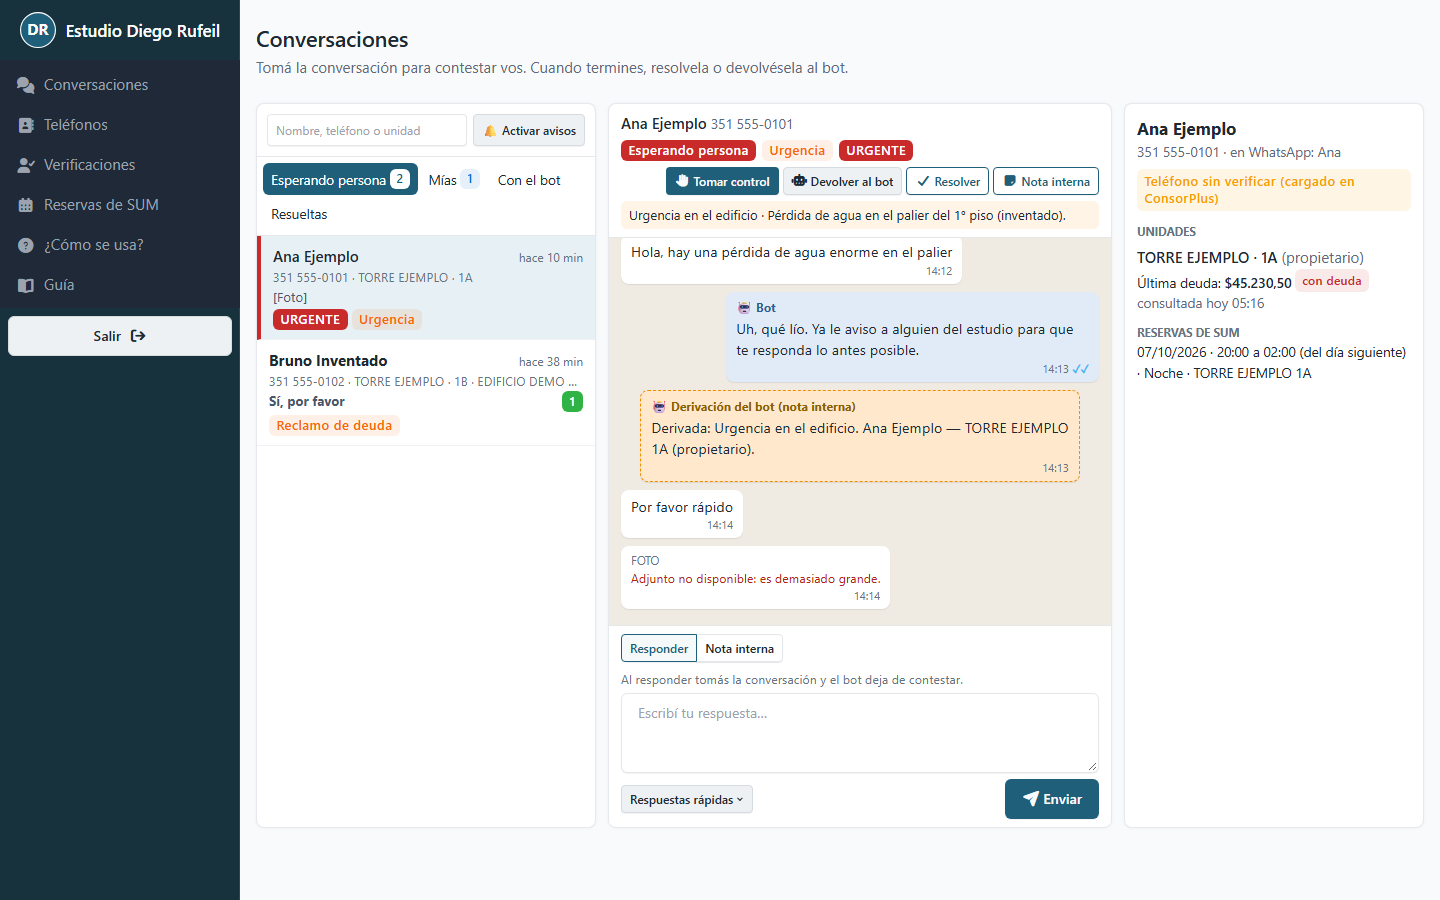
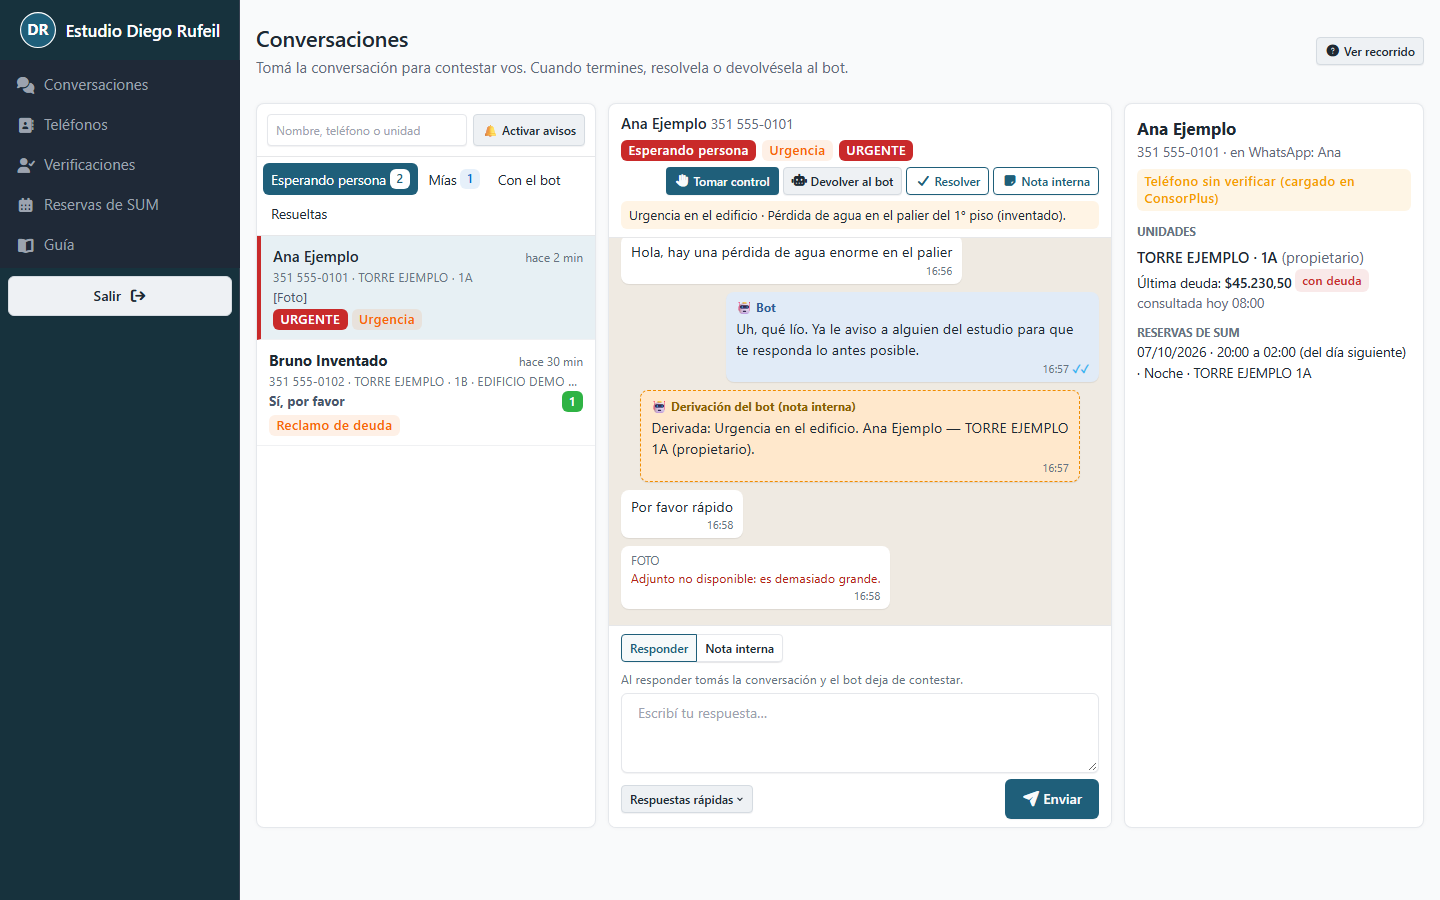
panel: «Ver recorrido» como botón del encabezado de Conversaciones (arranca ahí mismo o abre la primera esperando) en lugar de «¿Cómo se usa?» en el menú; guía, ayuda, capturas, tests e inventario actualizados

Changed region(s): [[0.0, 0.2489, 0.1875, 0.4044], [0.9062, 0.0311, 1.0, 0.0622], [0.8438, 0.3111, 0.875, 0.3422]]

diff --git a/app/admin/templates/sqladmin/layout.html b/app/admin/templates/sqladmin/layout.html
@@ -4,12 +4,14 @@
     the original stays as is. -#}
 {% extends "sqladmin_original/layout.html" %}
 {% block content_header %}
-<div class="row align-items-center">
+<div class="row align-items-center g-2">
   <div class="col">
     <h2 class="page-title">{% if title %}{{ title }}{% elif model_view is defined %}{{ model_view.name_plural }}{% endif %}</h2>
     {% set help_line = page_help(request) %}
     {% if help_line %}<p class="page-help mb-0">{{ help_line }}</p>{% endif %}
   </div>
+  {# A page's own buttons beside its title (e.g. "Ver recorrido" in Conversaciones). #}
+  {% block header_actions %}{% endblock %}
 </div>
 {% endblock %}
 {% block tail %}

diff --git a/app/admin/templates/conversations.html b/app/admin/templates/conversations.html
@@ -1,4 +1,12 @@
 {% extends "sqladmin/layout.html" %}
+{% block header_actions %}
+<div class="col-auto">
+  {# With a conversation open, panel.js starts the tour right here; else the link opens the
+     first waiting one with the tour (/admin/tour). #}
+  <a class="btn btn-sm btn-secondary" id="tour-start" href="{{ url_for('admin:view-tour') }}"
+     data-tour-start><i class="fa-solid fa-circle-question me-1"></i>Ver recorrido</a>
+</div>
+{% endblock %}
 {% block content %}
 <div class="col-12">
   <div id="inbox-app" class="inbox{% if open_id %} has-open{% endif %}"

diff --git a/app/admin/static/panel.js b/app/admin/static/panel.js
@@ -142,5 +142,14 @@
   }
 
   window.panelTour = start;
+  // "Ver recorrido": right here when a conversation is open (all its buttons are on the page);
+  // otherwise the link opens the first waiting conversation with the tour.
+  var startButton = document.querySelector("[data-tour-start]");
+  if (startButton && app.dataset.open) {
+    startButton.addEventListener("click", function (event) {
+      event.preventDefault();
+      start();
+    });
+  }
   if (app.dataset.tourAuto === "true") start();
 })();

diff --git a/tests/admin/test_tour.py b/tests/admin/test_tour.py
@@ -1,5 +1,5 @@
 """The tour of "Conversaciones": it opens by itself until each user sees (or skips) it, and the
-menu's "¿Cómo se usa?" shows it again over a conversation. Invented data only."""
+page's "Ver recorrido" button shows it again over a conversation. Invented data only."""
 
 import json
 import re
@@ -114,3 +114,28 @@ def test_marking_it_needs_login(panel: Panel, db_session: Session) -> None:
     response = panel.client.post("/admin/conversations/tour-seen", follow_redirects=False)
     assert response.status_code == 302 and "/admin/login" in response.headers["location"]
     assert _seen_at(db_session, OPERATOR) is None
+
+
+def test_see_the_tour_is_a_button_of_the_page_not_a_menu_entry(operator: Panel) -> None:
+    page = operator.client.get("/admin/conversations").text
+    button = re.search(r'<a class="btn btn-sm btn-secondary" id="tour-start" href="([^"]+)"', page)
+    assert button and button.group(1).endswith("/admin/tour")
+    assert "Ver recorrido" in page and "fa-circle-question" in page
+    nav = page.split('id="navbarSupportedContent"', 1)[1].split("</nav>", 1)[0]
+    assert "Ver recorrido" not in nav and "Cómo se usa" not in nav
+
+
+def test_see_the_tour_is_on_an_open_conversation_too(operator: Panel) -> None:
+    conv = conversation(operator.session, status=WaConversationStatus.WAITING_HUMAN)
+    operator.session.commit()
+    page = operator.client.get(f"/admin/conversations/{conv.id}").text
+    # panel.js starts it right there (the conversation's id is in data-open).
+    assert 'id="tour-start"' in page and f'data-open="{conv.id}"' in page
+
+
+def test_the_guide_points_to_the_button() -> None:
+    from app.admin.guide import GUIDE_FILE
+
+    text = GUIDE_FILE.read_text(encoding="utf-8")
+    assert "tocá **Ver recorrido** arriba de\n**Conversaciones**" in text
+    assert "Cómo se usa" not in text

diff --git a/app/admin/guide.py b/app/admin/guide.py
@@ -1,5 +1,6 @@
-"""The menu's "¿Cómo se usa?" (the tour of "Conversaciones") and "Guía" (docs/guia-empleadas.md
-shown inside the panel), for every panel user.
+"""The menu's "Guía" (docs/guia-empleadas.md shown inside the panel) and the start of the tour
+of "Conversaciones" (/admin/tour, behind the page's "Ver recorrido" button), for every panel
+user.
 
 The guide is converted here with only what it uses (headings, paragraphs, lists, bold, links,
 images): every text is escaped, links go only to http(s) or the panel, and images only to the
@@ -131,11 +132,15 @@ class GuideView(BaseView):
 
 
 class TourView(BaseView):
-    """ "¿Cómo se usa?": the tour, over a conversation (so every button it shows is there)."""
+    """The tour, over a conversation (so every button it shows is there): what "Ver recorrido"
+    opens when no conversation is open. Not in the menu: it looked like another section."""
 
-    name = "¿Cómo se usa?"
+    name = "Ver recorrido"
     icon = "fa-solid fa-circle-question"
     session_maker: ClassVar[Any] = None
+
+    def is_visible(self, request: Request) -> bool:
+        return False
 
     @expose("/tour", methods=["GET"], identity="tour")
     async def tour_page(self, request: Request) -> Response:

diff --git a/app/admin/conversations.py b/app/admin/conversations.py
@@ -9,8 +9,9 @@
 - POST /admin/conversations/tour-seen            the tour (app.admin.help.TOUR) was seen
 
 The tour opens by itself until the user sees (or skips) it: panel_users.tour_seen_at, or the
-session for the .env rescue admin (not in that table). With ?tour=1 it opens anyway (the
-menu's "¿Cómo se usa?", app.admin.guide.TourView).
+session for the .env rescue admin (not in that table). The page's "Ver recorrido" button
+starts it again right there; with no conversation open it goes through /admin/tour
+(app.admin.guide.TourView), which opens the first waiting one with ?tour=1.
 
 The page and the poll render the same Jinja partials (autoescaped: whatever the contact
 sends is only ever text). Forms that send something carry a one-time token kept in the

diff --git a/app/admin/__init__.py b/app/admin/__init__.py
@@ -2,7 +2,7 @@
 
 The menu, for everyone: "Conversaciones" (the WhatsApp inbox, app.admin.conversations),
 "Teléfonos" (app.admin.phones), "Verificaciones" (app.admin.verifications), "Reservas de
-SUM" (app.admin.amenities), "¿Cómo se usa?" and "Guía" (app.admin.guide). Then, under
+SUM" (app.admin.amenities) and "Guía" (app.admin.guide). Then, under
 "Administración" and only for admins: buildings and
 their information, the bot settings, the WhatsApp templates and quick replies of the inbox,
 the panel users (app.admin.users), metrics, sync runs (read only) and, in development only,

diff --git a/app/admin/help.py b/app/admin/help.py
@@ -19,7 +19,7 @@ PAGE_HELP: dict[str, str] = {
     # What the operators use
     "view-conversations": (
         "Las charlas de WhatsApp. En «Esperando persona» están las que el bot no pudo "
-        "resolver y necesitan a alguien del estudio."
+        "resolver y necesitan a alguien del estudio. Para un repaso, tocá «Ver recorrido»."
     ),
     "view-conversation": (
         "Tomá la conversación para contestar vos. Cuando termines, resolvela o devolvésela al bot."

diff --git a/tests/admin/test_permissions.py b/tests/admin/test_permissions.py
@@ -63,7 +63,6 @@ OPERATOR_MENU = [
     "Teléfonos",
     "Verificaciones",
     "Reservas de SUM",
-    "¿Cómo se usa?",
     "Guía",
 ]
 ADMIN_SECTION = [

diff --git a/docs/inventario-panel.md b/docs/inventario-panel.md
@@ -11,12 +11,14 @@
   (`_confirm_dialog.html` + `panel.js`). Dice qué le pasa a la persona del otro lado: en ningún
   caso le llega un aviso.
 - **Recorrido de Conversaciones:** 5 pasos en globos. Aparece solo hasta que cada usuaria lo ve
-  (`panel_users.tour_seen_at`) y se vuelve a ver desde «¿Cómo se usa?» en el menú.
+  (`panel_users.tour_seen_at`) y se vuelve a ver con el botón «Ver recorrido» del encabezado
+  de Conversaciones (con una conversación abierta arranca ahí mismo; si no, abre primero la
+  primera esperando). No está en el menú: parecía otra sección.
 - **Guía:** «Guía» en el menú abre `docs/guia-empleadas.md` dentro del panel. Sus imágenes, con
   datos inventados, están en `docs/guia-empleadas/` y van a Git.
 - **Textos de Conversaciones para la operadora:** donde decía «plantilla» ahora dice «mensajes ya
   preparados».
-- **Menú:** «¿Cómo se usa?» y «Guía» aparecen para los dos roles, después de Reservas de SUM.
+- **Menú:** «Guía» aparece para los dos roles, después de Reservas de SUM.
 
 ## Actualización 5d.4: castellano y un solo estilo (2026-10-07)
 

diff --git a/docs/guia-empleadas.md b/docs/guia-empleadas.md
@@ -1,11 +1,13 @@
 # Guía del panel
 
+Para ver un recorrido rápido por la pantalla, tocá **Ver recorrido** arriba de
+**Conversaciones**.
+
 Esta guía explica las tareas de todos los días en el panel del estudio. Las capturas usan
 nombres y números inventados.
 
 Si en algún momento no sabés qué hacer en una pantalla, leé la línea gris que está debajo del
-título: dice para qué sirve. En **Conversaciones** podés volver a ver el recorrido desde
-**¿Cómo se usa?**, en el menú.
+título: dice para qué sirve.
 
 ![El recorrido de Conversaciones, paso a paso](guia-empleadas/09-recorrido.png)
 
